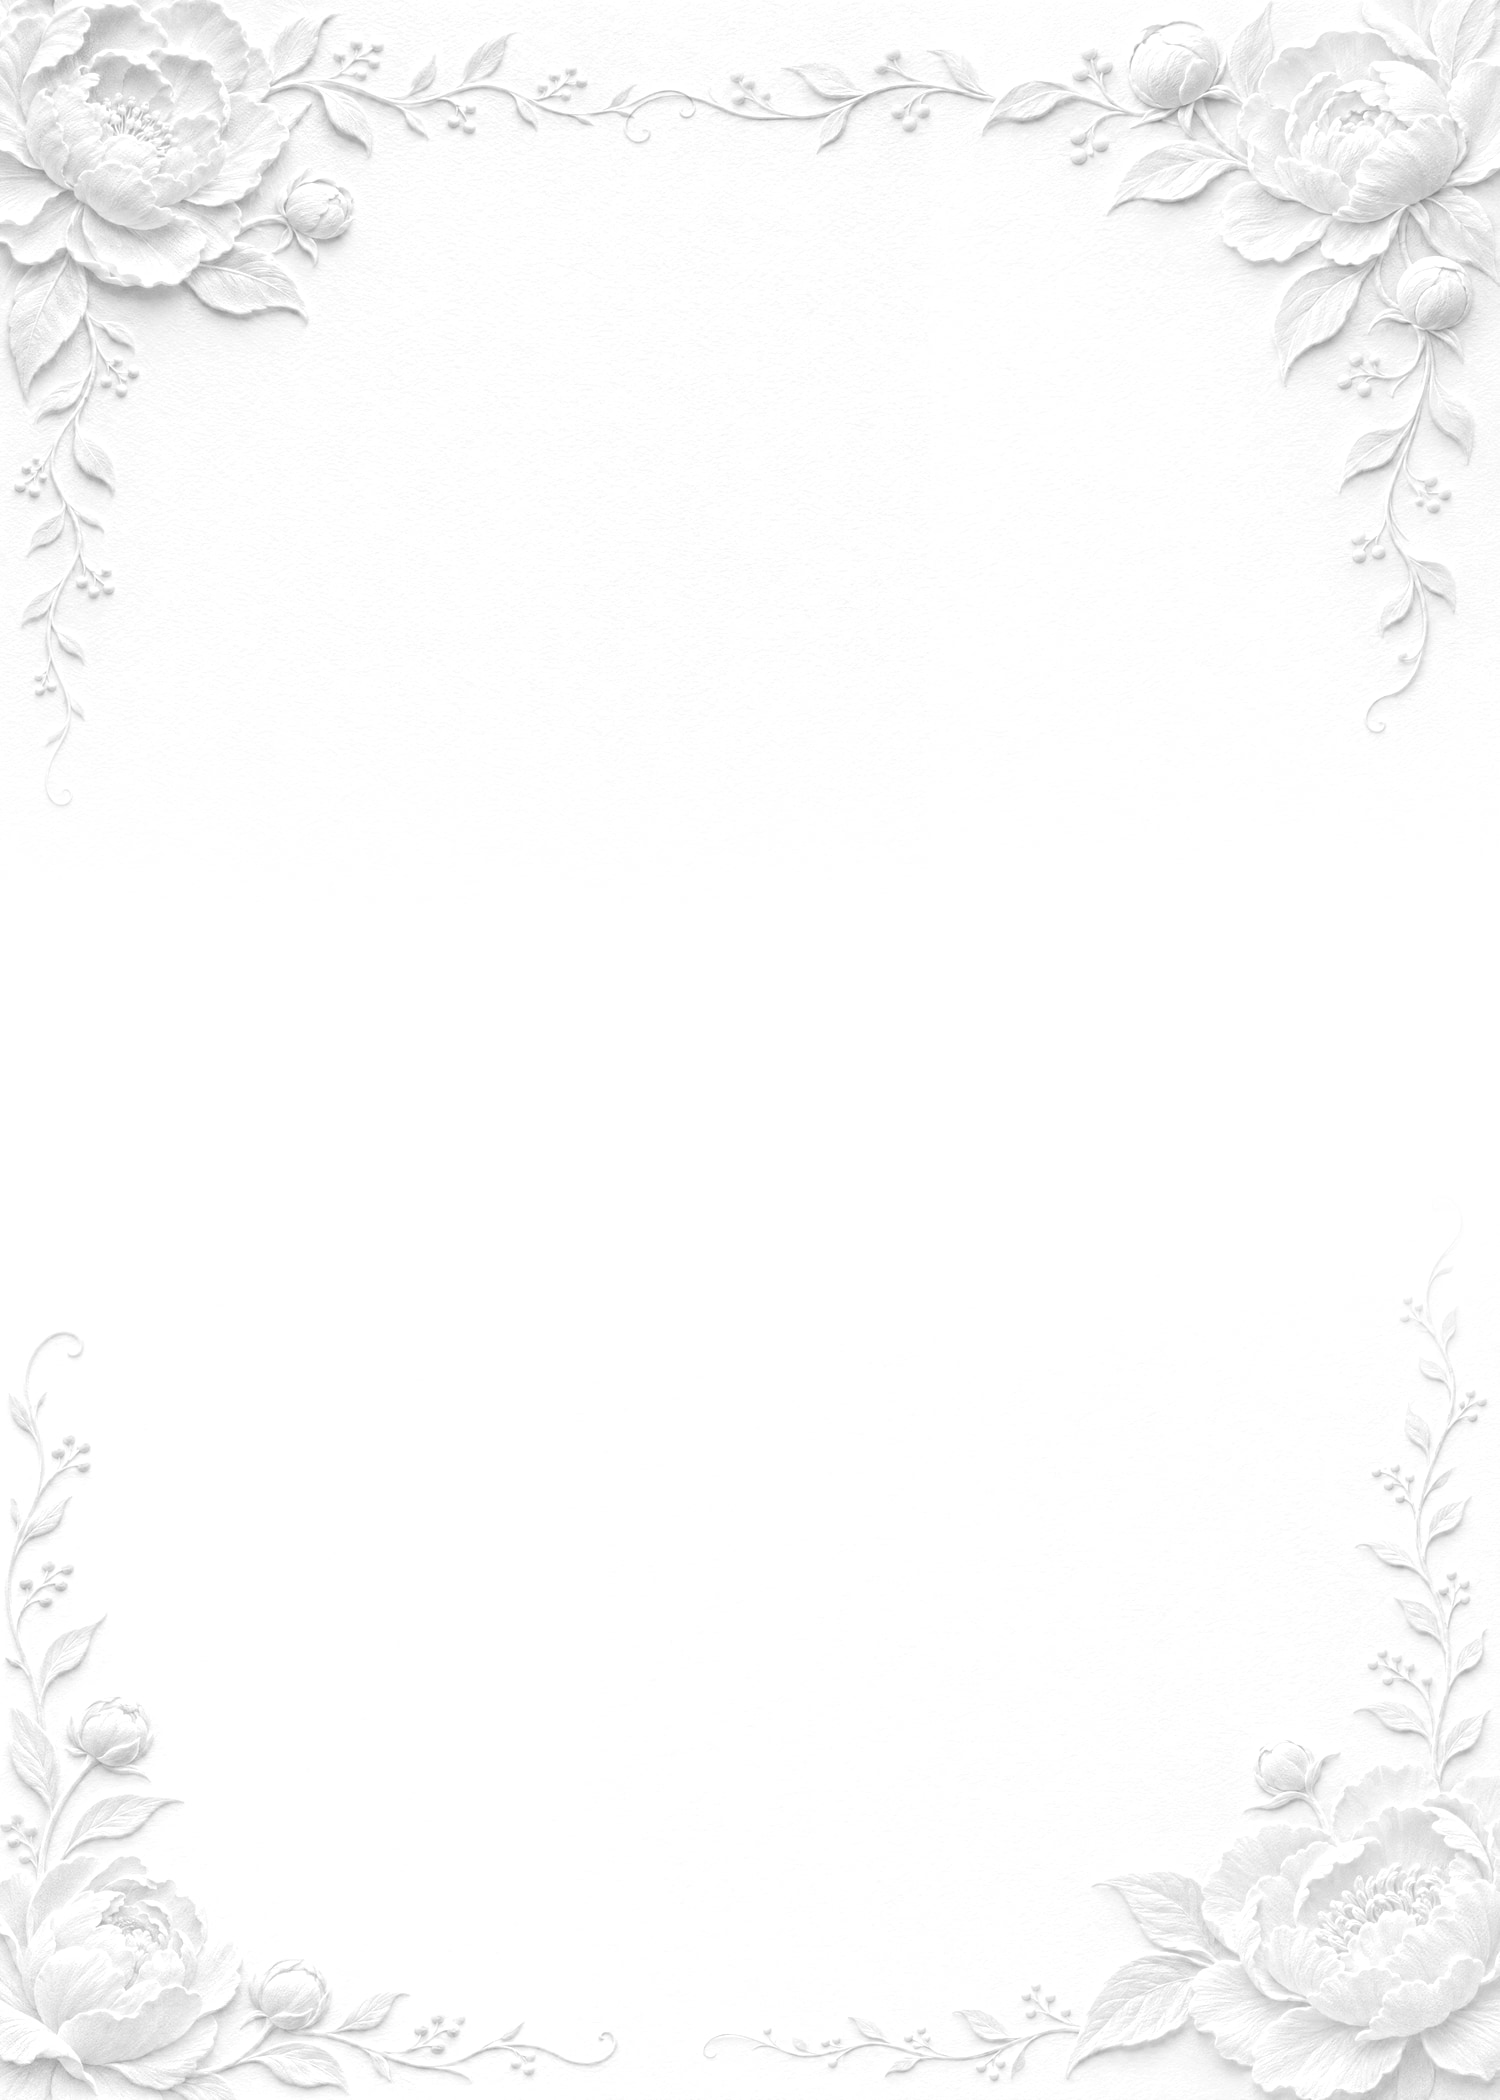
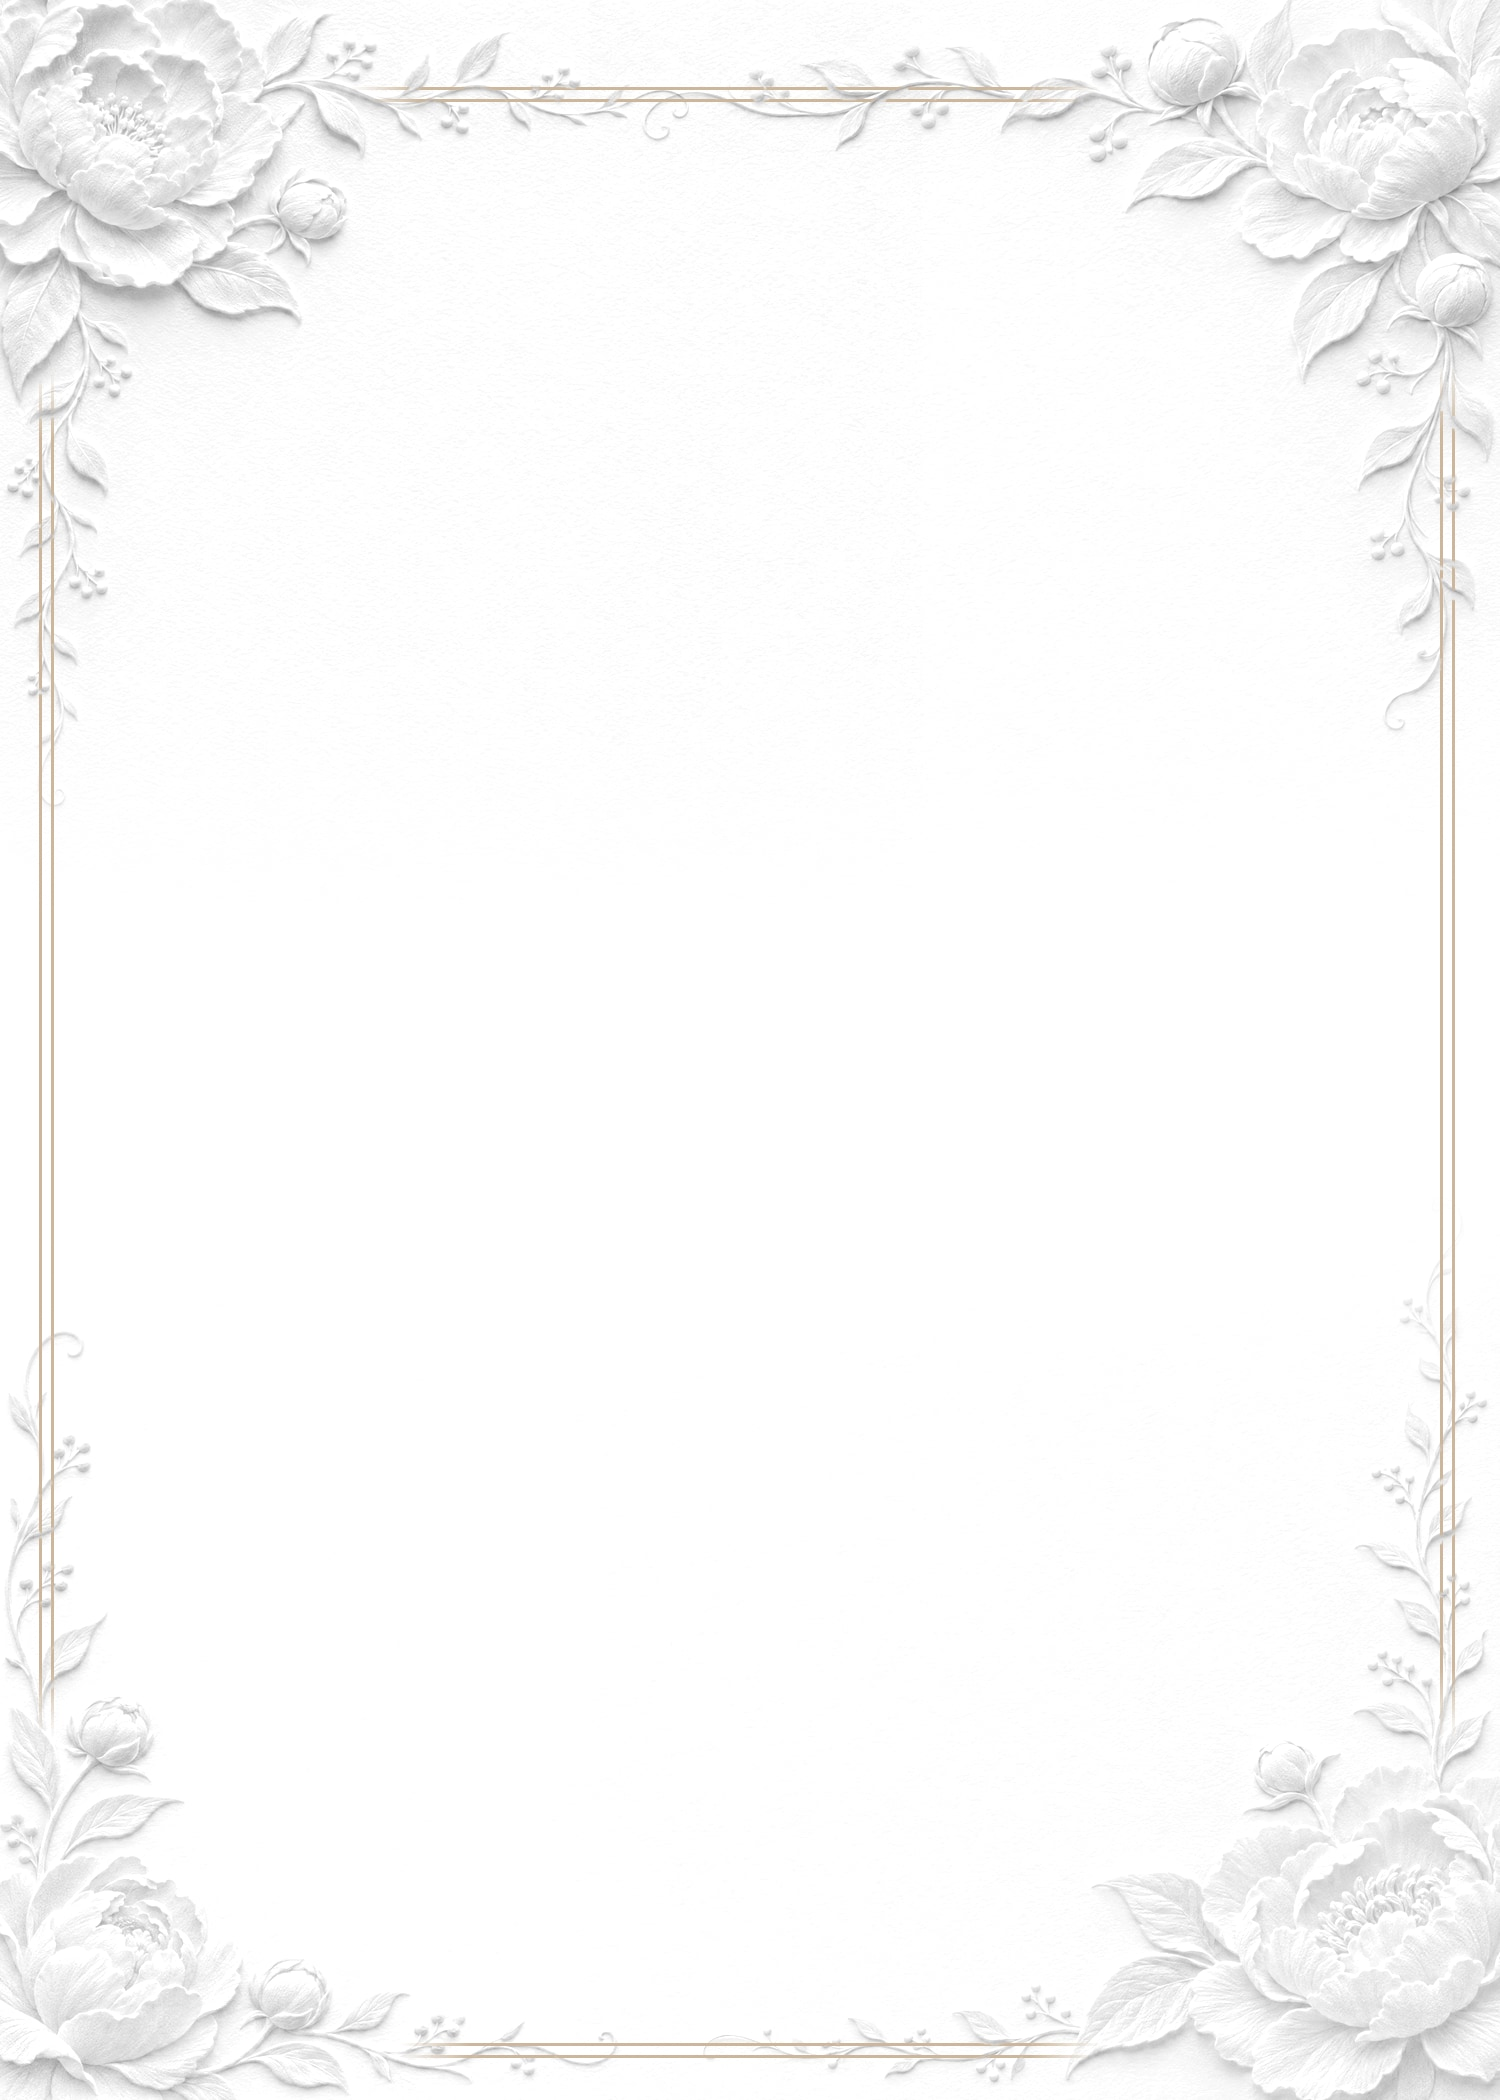
Send invitations from Gmail; date and border vines
- Invitation emails go out from the couple's Gmail (GMAIL_USER +
  GMAIL_APP_PASSWORD via nodemailer), so guests receive them without a
  custom domain; Resend remains as a fallback
- Wedding date reads "Saturday, May 15, 2027" everywhere
- Printed card: the gold double border is drawn into the embossed paper
  along each corner's vine, passing behind leaves and berries so the
  vines wrap the border on all four sides
- Print files are written safely while OneDrive syncs

Changed region(s): [[0.0, 0.0, 1.0, 0.8048], [0.46, 0.9595, 0.7053, 0.9905], [0.7667, 0.0929, 0.7973, 0.1238]]

diff --git a/lib/email.ts b/lib/email.ts
@@ -3,15 +3,22 @@ import { readFileSync } from "node:fs";
 import path from "node:path";
 import { COUPLE, DATE_LABEL, RSVP_DEADLINE_LABEL, VENUES, mapsUrl } from "./wedding";
 
-// Invitation emails, sent through Resend (RESEND_API_KEY). EMAIL_FROM sets the sender; until a
-// domain is verified in Resend, its test sender only delivers to the Resend account's own email.
+// Invitation emails, sent from the couple's own Gmail (GMAIL_USER + GMAIL_APP_PASSWORD, a Google app
+// password), so they reach any guest without a domain of their own. Gmail allows about 500 a day.
+// Resend (RESEND_API_KEY) still works as a fallback when Gmail isn't set up.
 //
-// The invitation card (public/email/invite-card.png, built by scripts/invitation-art.mjs) is linked from the site when the
-// site has a public https address, and travels inside the email (inline attachments) otherwise, so a
-// test sent from a laptop still shows the peonies.
+// The invitation card (public/email/invite-card.png, built by scripts/invitation-art.mjs) is linked from the
+// site when the site has a public https address, and travels inside the email (inline attachment)
+// otherwise, so a test sent from a laptop still shows the peonies.
 
-export const emailConfigured = () => Boolean(process.env.RESEND_API_KEY);
-const FROM = () => process.env.EMAIL_FROM || `${COUPLE.short} <onboarding@resend.dev>`;
+const gmailReady = () => Boolean(process.env.GMAIL_USER && process.env.GMAIL_APP_PASSWORD);
+export const emailConfigured = () => gmailReady() || Boolean(process.env.RESEND_API_KEY);
+const FROM = () =>
+  process.env.EMAIL_FROM && !(gmailReady() && process.env.EMAIL_FROM.includes("resend.dev"))
+    ? process.env.EMAIL_FROM
+    : gmailReady()
+      ? `"${COUPLE.short}" <${process.env.GMAIL_USER}>`
+      : `${COUPLE.short} <onboarding@resend.dev>`;
 
 const ART = { card: "invite-card.png" } as const;
 type ArtKey = keyof typeof ART;
@@ -148,10 +155,45 @@ ${COUPLE.short}`;
   return { subject, html, text, inline: inline ? (Object.keys(ART) as ArtKey[]) : [] };
 }
 
+let transport: import("nodemailer").Transporter | null = null;
+async function gmail() {
+  if (!transport) {
+    const nodemailer = (await import("nodemailer")).default;
+    transport = nodemailer.createTransport({
+      service: "gmail",
+      auth: { user: process.env.GMAIL_USER, pass: process.env.GMAIL_APP_PASSWORD?.replace(/s+/g, "") },
+    });
+  }
+  return transport;
+}
+
+const artFile = (k: ArtKey) => path.join(process.cwd(), "public", "email", ART[k]);
+
 export async function sendEmail(to: string, msg: InviteEmail) {
+  if (gmailReady()) {
+    try {
+      await (await gmail()).sendMail({
+        from: FROM(),
+        to,
+        subject: msg.subject,
+        html: msg.html,
+        text: msg.text,
+        attachments: msg.inline.map((k) => ({ filename: ART[k], content: readFileSync(artFile(k)), cid: k, contentType: "image/png" })),
+      });
+    } catch (e) {
+      const m = (e as Error).message;
+      throw new Error(
+        /Invalid login|Username and Password not accepted|535/i.test(m)
+          ? "Gmail didn't accept the sign-in. Check GMAIL_USER and the app password."
+          : `Gmail: ${m.slice(0, 200)}`,
+      );
+    }
+    return;
+  }
+
   const attachments = msg.inline.map((k) => ({
     filename: ART[k],
-    content: readFileSync(path.join(process.cwd(), "public", "email", ART[k])).toString("base64"),
+    content: readFileSync(artFile(k)).toString("base64"),
     content_id: k,
     content_type: "image/png",
   }));

diff --git a/lib/invitation-card.ts b/lib/invitation-card.ts
@@ -43,7 +43,7 @@ export function invitationCardHtml({
     ? `<div class="sheet-gap"></div>
 <div class="card back">
   <div class="mono" aria-label="L and M"><span class="l">L</span><span class="a">&amp;</span><span class="l">M</span></div>
-  <p class="back-date">May 15th, 2027</p>
+  <p class="back-date">May 15, 2027</p>
 </div>`
     : "";
   const bar = page
@@ -87,6 +87,9 @@ export function invitationCardHtml({
   /* Printed card: the embossed paper carries the flowers; the border runs along the vines and only
      breaks at the two peonies, like the original. */
   .card.emboss { background: #fff url("${art.paperFront ?? ""}") center / 100% 100% no-repeat; }
+  /* the printed card's border is part of the embossed paper (scripts/emboss-paper.mjs), so the vines
+     can wrap around it */
+  .card.emboss .ln { display: none; }
   /* a peony in every corner: each line breaks at both ends with a short taper, and runs along the vines */
   .card.emboss .ln { --t: 22px; }
   .card.emboss .ln.h { background: linear-gradient(90deg, transparent, var(--c) var(--t), var(--c) calc(100% - var(--t)), transparent); }
@@ -159,7 +162,7 @@ ${bar}
     <p class="amp">&amp;</p>
     <p class="names">Marko Pupavac</p>
     <p class="lead caps">Invite you to join them<br>as they celebrate their marriage on</p>
-    <p class="date caps">Saturday, May 15<sup>th</sup>, 2027</p>
+    <p class="date caps">Saturday, May 15, 2027</p>
     <div class="cols">
       <div class="col">
         <h2 class="caps">Church Ceremony</h2>

diff --git a/app/admin/actions.ts b/app/admin/actions.ts
@@ -106,7 +106,7 @@ export type SendResult = { ok: true; sent: number; failed: string[]; skipped: st
 
 export async function sendInvites(ids: string[]): Promise<SendResult> {
   await requireAdmin();
-  if (!emailConfigured()) return { ok: false, error: "Email sending isn't switched on yet: add RESEND_API_KEY to the site's settings." };
+  if (!emailConfigured()) return { ok: false, error: "Email sending isn't switched on yet: add GMAIL_USER and GMAIL_APP_PASSWORD to the site's settings." };
   const base = await siteUrl();
   const sent: string[] = [];
   const failed: string[] = [];
@@ -147,7 +147,7 @@ export async function deleteEverything(confirmation: string): Promise<SaveResult
  */
 export async function sendTestInvite(to: string): Promise<SaveResult> {
   await requireAdmin();
-  if (!emailConfigured()) return { ok: false, error: "Email sending isn't switched on yet: add RESEND_API_KEY to the site's settings." };
+  if (!emailConfigured()) return { ok: false, error: "Email sending isn't switched on yet: add GMAIL_USER and GMAIL_APP_PASSWORD to the site's settings." };
   const email = z.email().safeParse(to.trim());
   if (!email.success) return { ok: false, error: "Please enter a valid email address." };
   if (!rateLimit("admin-test-send", 10, 60_000)) return { ok: false, error: "Too many test sends. Please wait a minute." };

diff --git a/app/layout.tsx b/app/layout.tsx
@@ -26,12 +26,12 @@ const pinyon = Pinyon_Script({
 
 export const metadata: Metadata = {
   metadataBase: new URL(process.env.NEXT_PUBLIC_SITE_URL || "http://localhost:3000"),
-  title: "Linda & Marko · May 15th, 2027",
-  description: "Together with their families, Linda Todorovski & Marko Pupavac invite you to celebrate their marriage on Saturday, May 15th, 2027.",
+  title: "Linda & Marko · May 15, 2027",
+  description: "Together with their families, Linda Todorovski & Marko Pupavac invite you to celebrate their marriage on Saturday, May 15, 2027.",
   robots: { index: false, follow: false, nocache: true, googleBot: { index: false, follow: false } },
   openGraph: {
     title: "Linda & Marko",
-    description: "Saturday, May 15th, 2027 · Please RSVP by March 15th, 2027",
+    description: "Saturday, May 15, 2027 · Please RSVP by March 15th, 2027",
     type: "website",
   },
 };

diff --git a/components/admin/AdminDashboard.tsx b/components/admin/AdminDashboard.tsx
@@ -205,7 +205,7 @@ export function AdminDashboard({ rows, usingDatabase, emailReady }: { rows: Row[
               Test mode: this list is sample data kept in memory and resets when the site restarts. Connect Supabase before adding the real guest list.
             </p>
           )}
-          {!emailReady && <p className="notice">Invitation emails are switched off until RESEND_API_KEY is added. You can still preview the email and copy each party&apos;s RSVP link.</p>}
+          {!emailReady && <p className="notice">Invitation emails are switched off until the Gmail settings (GMAIL_USER, GMAIL_APP_PASSWORD) are added. You can still preview the email and copy each party&apos;s RSVP link.</p>}
         </div>
       )}
 

diff --git a/lib/wedding.ts b/lib/wedding.ts
@@ -9,7 +9,7 @@ export const COUPLE = {
 
 export const TIMEZONE = "America/Toronto";
 
-export const DATE_LABEL = "Saturday, May 15th, 2027";
+export const DATE_LABEL = "Saturday, May 15, 2027";
 
 export type VenueKey = "ceremony" | "reception";
 
